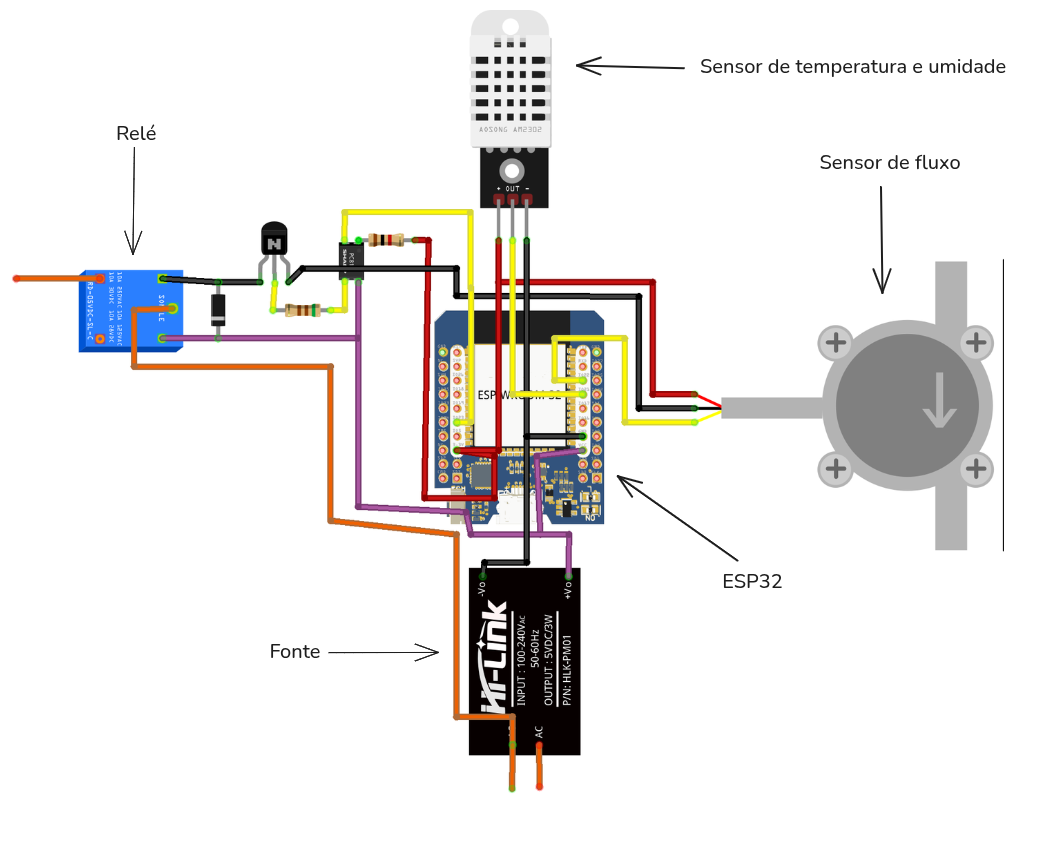
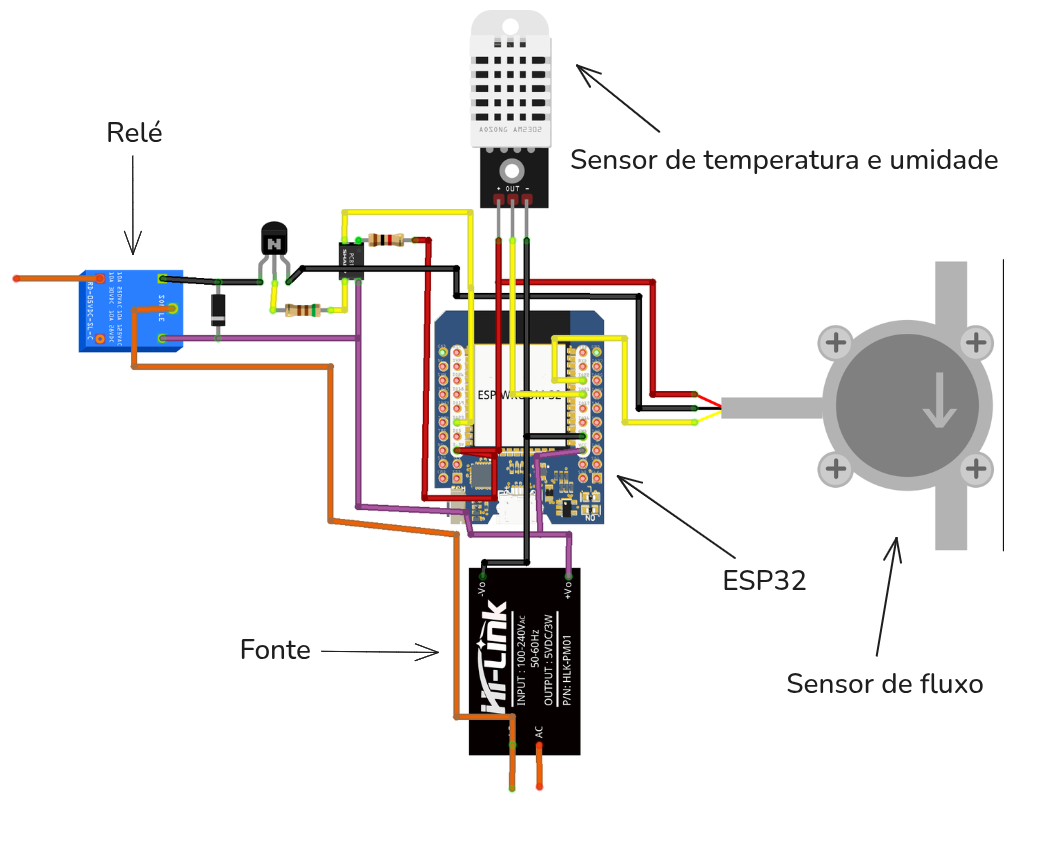
docs: add readme

diff --git a/README.md b/README.md
@@ -1,1 +1,258 @@
-# Sistema-de-Monitoramento-e-Atuacao-Automatico-para-Producao-Hidroponica
+# Sistema de Monitoramento e Atuação Automático para Produção Hidropônica
+
+Monitoramento e automação de cultivo hidropônico NFT com módulos ESP32, broker MQTT e aplicação web em Phoenix LiveView.
+
+## Visão geral
+
+Na técnica NFT, uma lâmina fina de solução nutritiva circula continuamente pelas raízes, e o cultivo depende de variáveis que mudam ao longo do dia: pH, condutividade elétrica, temperatura da solução, temperatura e umidade do ar, vazão e fotoperíodo. Em pequena escala, o acompanhamento é feito por medições manuais esporádicas, com bomba e iluminação em timer e sem registro histórico.
+
+Este sistema mede essas variáveis a cada 15 segundos, grava a série histórica em banco, exibe as leituras em tempo real na web e aciona bomba e lâmpada por cronogramas configuráveis.
+
+Custo aproximado: R$ 195,06 por módulo de reservatório e R$ 98,57 por bancada, cerca de R$ 293 para um sistema com um reservatório e uma bancada.
+
+![Estufa hidropônica montada: três canais NFT, reservatório com as sondas de pH, EC, temperatura e nível, e o módulo de bancada fixado na estrutura](Imagens/20251112_160534.jpg)
+
+_Protótipo em operação: canais NFT em PVC, reservatório com a bomba e as sondas, módulo ESP32 da bancada no alto e caixa de passagem com o relé._
+
+## Arquitetura
+
+Três níveis, ligados por MQTT:
+
+```mermaid
+flowchart TB
+    subgraph controle["Controle geral"]
+        broker["Broker MQTT<br/>Eclipse Mosquitto (MQTT v5)<br/>Docker · Raspberry Pi 3B+"]
+        subgraph app["Aplicação web (nó BEAM único)"]
+            mqtt["MqttClient<br/>GenServer :emqtt"]
+            logica["Sensors · Devices · Greenhouse<br/>Oban: IrrigationWorker, LightWorker"]
+            lv["LiveViews<br/>Dashboard e Device"]
+            db[("PostgreSQL")]
+            mqtt <--> logica
+            logica <--> db
+            logica <--> lv
+        end
+        broker <--> mqtt
+    end
+
+    subgraph estufa["Estufa hidropônica"]
+        subgraph res["Controle do reservatório"]
+            esp1["ESP32"]
+            s1["pH · TDS/EC · DS18B20<br/>3x nível XKC-Y25-V"]
+            a1["Bomba submersa 600 L/h<br/>via relé"]
+            s1 --> esp1 --> a1
+        end
+        subgraph banc["Controle da bancada"]
+            esp2["ESP32"]
+            s2["DHT22 · fluxo YF-S201"]
+            a2["Lâmpada LED E27<br/>espectro completo via relé"]
+            s2 --> esp2 --> a2
+        end
+    end
+
+    esp1 -- "greenhouse/&lt;mac&gt;/sensors" --> broker
+    broker -- "greenhouse/&lt;mac&gt;/commands" --> esp1
+    esp2 -- "bench/&lt;mac&gt;/sensors" --> broker
+    broker -- "bench/&lt;mac&gt;/commands" --> esp2
+```
+
+O broker é o único ponto de encontro entre firmware e servidor: os ESP32 não conhecem o endereço da aplicação nem ela o deles, ambos falam com `hidroponia.local:1883`.
+
+Cliente MQTT, regras de negócio, jobs agendados e processos LiveView rodam no mesmo nó BEAM. Uma leitura que chega pelo `MqttClient` é gravada pelo contexto `Sensors` e propagada por `Phoenix.PubSub` direto para os LiveViews conectados, sem API REST intermediária.
+
+Um detalhe do esquema de tópicos: bancadas não carregam o identificador da estufa. A vinculação entre bancada e estufa fica no banco (`devices.greenhouse_id`, editável pela interface), então mover um módulo de bancada para outra estufa não exige recompilar firmware.
+
+## Hardware
+
+**Módulo do reservatório** (diagrama: `Imagens/DiagramaReservatorioAnotado.png`)
+
+| Componente                 | Função                                                     |
+| -------------------------- | ---------------------------------------------------------- |
+| ESP32 (MH-ET Live MiniKit) | Leitura dos sensores, publicação MQTT, acionamento do relé |
+| Sensor de pH PH-4502C      | pH da solução nutritiva                                    |
+| TDS Meter V1.0             | Condutividade elétrica da solução, em µS/cm                |
+| DS18B20                    | Temperatura da solução, usada na compensação de pH e EC    |
+| 3x XKC-Y25-V               | Nível capacitivo sem contato, sem furar o reservatório     |
+| Módulo relé                | Chaveamento da bomba                                       |
+| Bomba submersa 600 L/h     | Circulação da solução pelos canais NFT                     |
+| Fonte Hi-Link 5 V          | Alimentação a partir da rede                               |
+
+Total do módulo: **R$ 195,06**
+
+**Módulo da bancada** (diagrama: `Imagens/DiagramaBancadaAnotado.png`)
+
+| Componente                           | Função                                                     |
+| ------------------------------------ | ---------------------------------------------------------- |
+| ESP32 (MH-ET Live MiniKit)           | Leitura dos sensores, publicação MQTT, acionamento do relé |
+| DHT22                                | Temperatura e umidade do ar                                |
+| YF-S201                              | Vazão na bancada, por contagem de pulsos em interrupção    |
+| Módulo relé                          | Chaveamento da lâmpada                                     |
+| Lâmpada LED E27 de espectro completo | Iluminação suplementar                                     |
+| Fonte Hi-Link 5 V                    | Alimentação a partir da rede                               |
+
+Total do módulo: **R$ 98,57**
+
+Pinos e constantes de calibração ficam no `include/config.hpp` de cada firmware. Esquemas em Fritzing: `DiagramaBancada.fzz` e `Imagens/DiagramaReservatorio.fzz`.
+
+## Stack
+
+**Firmware:** C++ sobre o framework Arduino, compilado com PlatformIO para a board `mhetesp32minikit`, com PubSubClient, ArduinoJson, DallasTemperature (reservatório) e DHT sensor library (bancada).
+
+**Aplicação:** Elixir 1.15 com Phoenix 1.8, LiveView 1.1 e Bandit; PostgreSQL via Ecto, cronogramas no Oban, gráficos em ECharts, estilo em Tailwind e `emqtt` 1.14.4 como cliente MQTT (v5).
+
+**Infraestrutura:** Eclipse Mosquitto e PostgreSQL 15 em Docker Compose, num Raspberry Pi 3B+. O broker escuta MQTT na 1883 e WebSockets na 9001.
+
+## Estrutura do repositório
+
+```
+.
+├── SistemaReservatorio/   firmware do reservatório: src/, include/, platformio.ini, Makefile
+├── SistemaBancada/        firmware da bancada, mesma organização
+├── sistema_controle/      aplicação Phoenix: lib/, assets/, priv/, mosquitto/, docker-compose.yml
+└── Imagens/               diagramas, esquemas Fritzing e fotos do protótipo
+```
+
+## Como executar
+
+### Pré-requisitos
+
+- Elixir 1.15+ e Erlang/OTP compatível
+- Docker e Docker Compose
+- PlatformIO Core (`pio`) para os firmwares
+- Um host acessível como `hidroponia.local` na rede local, onde roda o broker
+
+### Broker MQTT e banco
+
+Os dois sobem pelo Compose em `sistema_controle/`:
+
+```bash
+cd sistema_controle
+docker compose up -d
+```
+
+O `mosquitto.conf` usa `allow_anonymous false` e exige `/mosquitto/config/password.txt`, que não é versionado. Crie o arquivo com o usuário do firmware e do servidor:
+
+```bash
+docker compose exec mosquitto mosquitto_passwd -c /mosquitto/config/password.txt hidroponia
+docker compose restart mosquitto
+```
+
+O PostgreSQL sobe com banco `hidroponia_db`, usuário `hidroponia_user` e senha `123456`, iguais aos de `config/dev.exs`. Para trocar, defina `POSTGRES_DB`, `POSTGRES_USER` e `POSTGRES_PASSWORD` antes do `up` e ajuste o `dev.exs`.
+
+### Aplicação web
+
+```bash
+cd sistema_controle
+mix setup        # deps.get, ecto.create, ecto.migrate, seeds, assets.setup, assets.build
+mix phx.server   # ou: iex -S mix phx.server
+```
+
+A interface fica em http://localhost:4000. Em desenvolvimento o endpoint escuta só em `127.0.0.1`; para acessar de outra máquina, troque `ip: {127, 0, 0, 1}` por `ip: {0, 0, 0, 0}` em `config/dev.exs`. O alias `mix precommit` compila com `--warnings-as-errors`, formata e roda os testes.
+
+### Firmwares
+
+Cada módulo é um projeto PlatformIO independente. Ajuste `include/config.hpp` com SSID, senha do Wi-Fi e credenciais do broker; os valores versionados são os do ambiente de testes. O endereço do broker também está em `sistema_controle/lib/sistema_controle/mqtt_client.ex` e precisa bater nos três arquivos.
+
+```bash
+cd SistemaReservatorio        # ou SistemaBancada
+make upload ENV=mhetesp32minikit
+make monitor                  # serial a 115200 baud
+```
+
+Em PlatformIO puro:
+
+```bash
+pio run -t upload --environment mhetesp32minikit
+pio device monitor -b 115200
+```
+
+`make erase ENV=mhetesp32minikit` apaga a flash; `make compiledb ENV=mhetesp32minikit` regenera o `compile_commands.json` do clangd.
+
+A calibração do pH usa a reta de `PH_CALIBRATION_A` e `PH_CALIBRATION_B`, em `config.hpp`. A função `calibrate_ph()` imprime ADC e tensão médios para levantar os dois pontos com soluções tampão.
+
+## Protocolo MQTT
+
+O identificador no tópico é o MAC retornado por `WiFi.macAddress()`, no formato `AA:BB:CC:DD:EE:FF`.
+
+| Tópico                      | Sentido          | Conteúdo                              |
+| --------------------------- | ---------------- | ------------------------------------- |
+| `greenhouse/<mac>/sensors`  | ESP32 → servidor | Leituras do reservatório, a cada 15 s |
+| `greenhouse/<mac>/commands` | Servidor → ESP32 | Acionamento da bomba                  |
+| `bench/<mac>/sensors`       | ESP32 → servidor | Leituras da bancada, a cada 15 s      |
+| `bench/<mac>/commands`      | Servidor → ESP32 | Acionamento da lâmpada                |
+
+O servidor assina `greenhouse/+/sensors` e `bench/+/sensors` com QoS 0; cada firmware assina só o próprio tópico de comandos.
+
+Leitura do reservatório, publicada em `greenhouse/AA:BB:CC:DD:EE:FF/sensors`:
+
+```json
+{
+  "ph": 6.12,
+  "ec": 1184.37,
+  "temp": 23.68,
+  "levels": { "level0": true, "level1": true, "level2": false },
+  "pump": true,
+  "ts": 1358230
+}
+```
+
+`ec` é a condutividade em µS/cm. O firmware aplica a curva do TDS Meter (`133.42·V³ − 255.86·V² + 857.39·V`) sobre a tensão já compensada em temperatura, sem multiplicar pelo fator TDS de 0,5, então o valor publicado é condutividade e não sólidos dissolvidos em ppm. Os três níveis são booleanos de presença de água em alturas diferentes do reservatório. `ts` é o `millis()` da placa, não um horário absoluto: o registro temporal é o `inserted_at` gravado pelo servidor.
+
+Leitura da bancada, publicada em `bench/AA:BB:CC:DD:EE:FF/sensors`:
+
+```json
+{
+  "flow": 1.87,
+  "air_temp": 26.4,
+  "air_humidity": 62.1,
+  "light": false,
+  "ts": 1358430
+}
+```
+
+Comandos, publicados pelo servidor:
+
+```json
+{ "atuador": "bomba", "valor": true }
+```
+
+```json
+{ "atuador": "luz", "valor": true }
+```
+
+O firmware do reservatório só reage a `"atuador": "bomba"`, e o da bancada só a `"atuador": "luz"`. Outros valores são registrados no serial e ignorados.
+
+Cadastro automático: ao receber mensagem de um MAC desconhecido, `Devices.create_or_update_device/2` cria o registro, nomeia como "Estufa N" ou "Bancada N" e, para estufas, cria a configuração padrão. Ligar um módulo novo na rede basta para ele aparecer na interface.
+
+## Resultados
+
+O sistema foi validado em um cultivo real de alface crespa.
+
+| 05/11/2025                                                                          | 12/11/2025                                                                                |
+| ----------------------------------------------------------------------------------- | ----------------------------------------------------------------------------------------- |
+| ![Mudas de alface recém-transplantadas nos canais NFT](Imagens/20251105_084728.jpg) | ![Alfaces desenvolvidas nos mesmos canais uma semana depois](Imagens/20251112_145454.jpg) |
+| Mudas recém-transplantadas, no início do monitoramento                              | As mesmas posições após uma semana de operação contínua                                   |
+
+Durante o ciclo, foram verificados:
+
+- Telemetria dos dois módulos a cada 15 segundos, com série histórica persistida e visualização em tempo real
+- Cadastro automático de módulos na primeira publicação
+- Troca de uma bancada entre estufas pela interface, sem regravar firmware
+- Cronogramas de bomba e lâmpada por janela de horário, dias da semana e ciclos liga/desliga em minutos
+- Acionamento manual pela interface, com retorno do estado na leitura seguinte
+
+**Limitação conhecida do sensor de pH.** O sensor de pH e o sensor de EC compartilham a mesma solução e o mesmo referencial de terra, e a excitação do eletrodo de EC injeta corrente na água que desloca a leitura do eletrodo de pH. A mitigação adotada é digital: `read_ph()` coleta 50 amostras, ordena o vetor e faz a média apenas do quartil central, descartando os extremos; a mesma filtragem é aplicada ao EC com 30 amostras, e ambas as leituras recebem compensação de temperatura a partir do DS18B20. A filtragem reduz o ruído, mas não elimina o desvio: a interferência eletroquímica permanece e a leitura de pH deve ser tratada como indicativa, com conferência periódica por medição manual. A solução definitiva passa por isolamento galvânico entre as sondas ou por alternar a excitação dos dois sensores no tempo.
+
+## Publicação
+
+Trabalho de conclusão de curso em Ciência da Computação, Faculdade de Computação (FACOM) da Universidade Federal de Mato Grosso do Sul (UFMS), 2025. Publicado nos anais do VII Congresso Brasileiro Interdisciplinar em Ciência e Tecnologia (COBICET), 2026.
+
+> CÁCERES, Camila Cardoso; JUNQUEIRA, Luiz Gustavo S. S. **Sistema automático de monitoramento e atuação para produção hidropônica**. In: CONGRESSO BRASILEIRO INTERDISCIPLINAR EM CIÊNCIA E TECNOLOGIA, 7., 2026. Anais [...]. Even3, 2026.
+
+https://www.even3.com.br/anais/cobicet2026-628540/1606975-sistema-automatico-de-monitoramento-e-atuacao-para--producao-hidroponica
+
+## Autores
+
+- Camila Cardoso Cáceres
+- Luiz Gustavo S. S. Junqueira
+
+Orientação: Profa. Hana Karina Salles Rubinsztejn (FACOM/UFMS).
